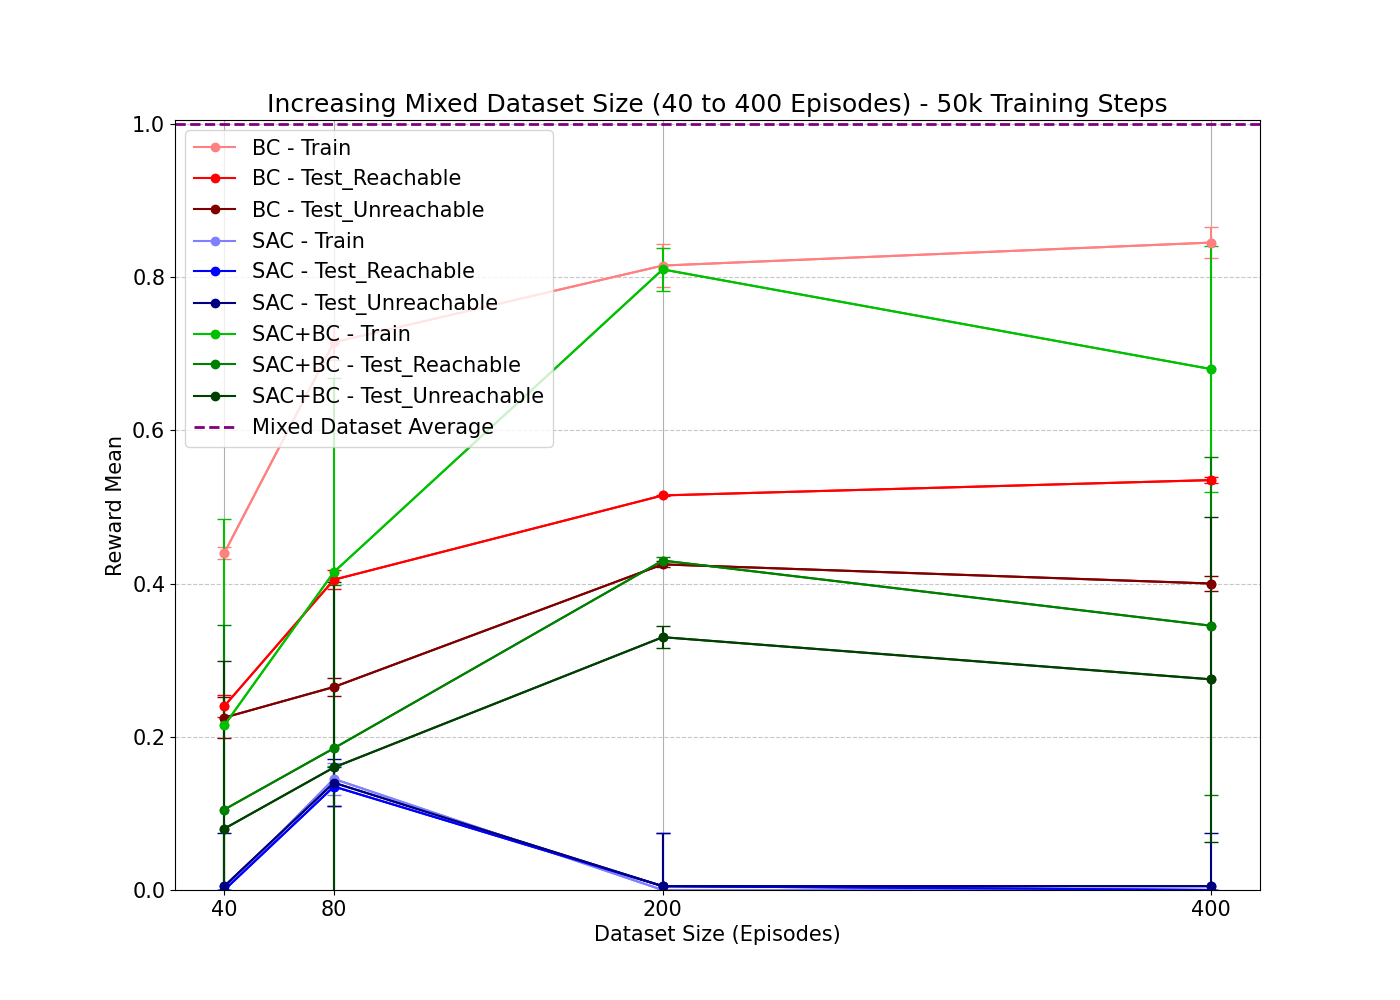
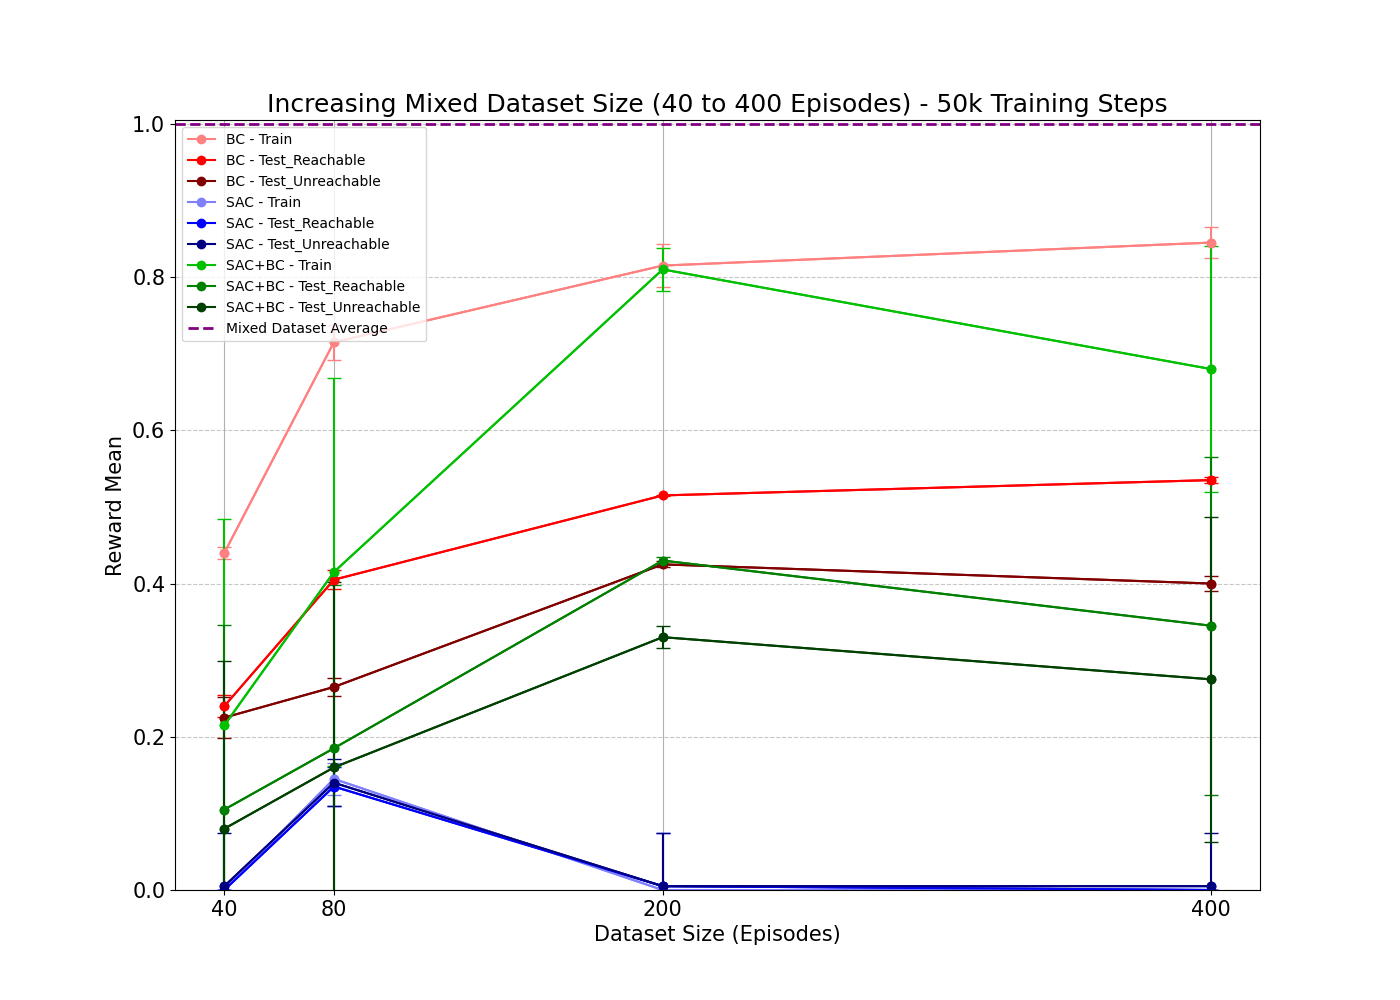
update

Changed region(s): [[0.1229, 0.124, 0.3993, 0.434]]

diff --git a/results.py b/results.py
@@ -367,7 +367,8 @@ def plotVariousDatasetSizeGraph(dataset_quality: str):
     plt.xlabel('Dataset Size (Episodes)')
     plt.ylabel('Reward Mean')
     plt.title(f'Increasing {dataset_quality.capitalize()} Dataset Size (40 to 400 Episodes) - {int(training_steps / 1000)}k Training Steps')
-    plt.legend(loc='best')
+    plt.rcParams.update({'font.size': 10})  # Adjust this value as needed
+    plt.legend(loc='upper left')
     plt.grid(True)
     plt.savefig(f'results/dataset_size/size_{dataset_quality}')
     # plt.show()
@@ -417,8 +418,8 @@ def main():
     # plotTrainingEnvironmentGraph(training_steps = 20000)
     # plotTrainingEnvironmentGraph(training_steps = 50000)
     
-    plotVariousDatasetSizeGraph(dataset_quality = 'optimal')
-    plotVariousDatasetSizeGraph(dataset_quality = 'suboptimal')
+    # plotVariousDatasetSizeGraph(dataset_quality = 'optimal')
+    # plotVariousDatasetSizeGraph(dataset_quality = 'suboptimal')
     plotVariousDatasetSizeGraph(dataset_quality = 'mixed')
 
 
